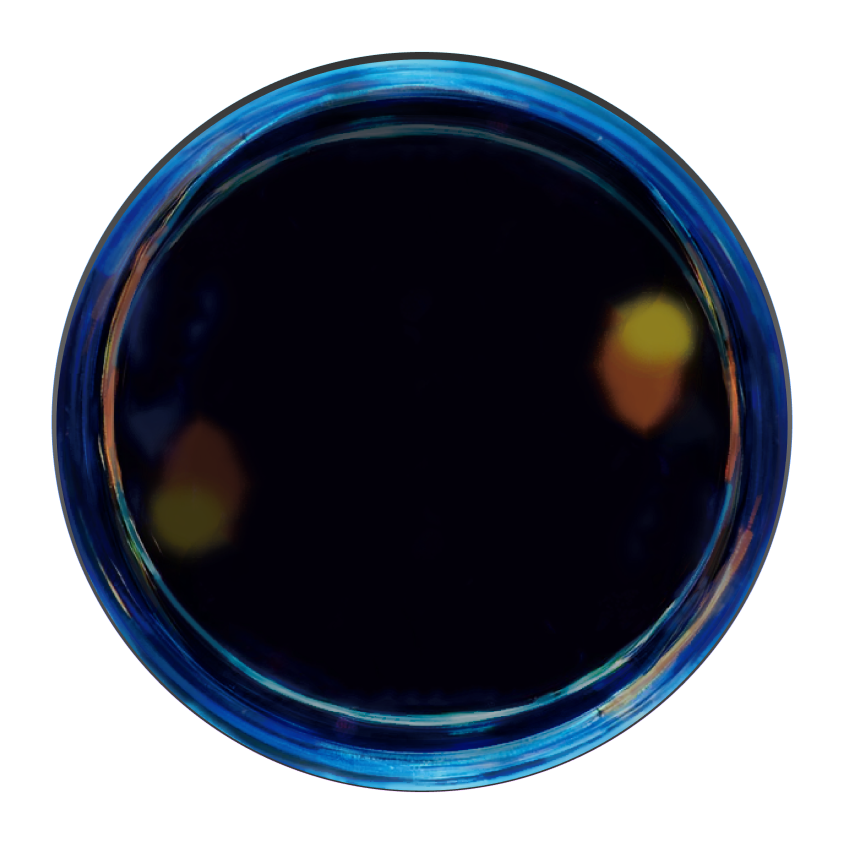
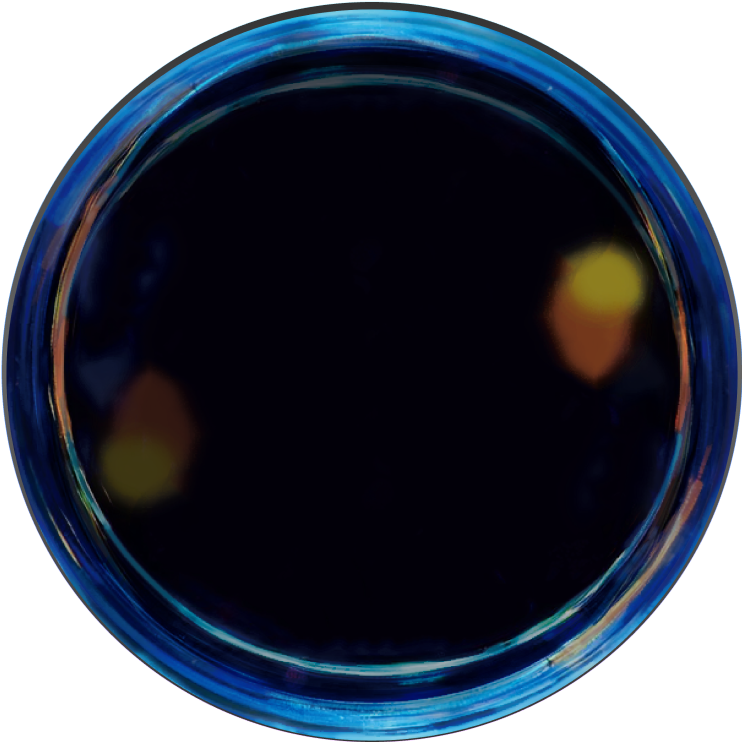
update 1216

diff --git a/index.html b/index.html
@@ -122,7 +122,7 @@
 
       .background-circle {
         background-image: url(./image/bg-circle-final.png);
-        background-size: 100%;
+        background-size: 88%;
         background-position: center;
         background-repeat: no-repeat; /* or 'repeat', 'repeat-x', 'repeat-y' */
       }
@@ -135,16 +135,34 @@
         gap: 1px;
         border-radius: 100%;
         overflow: hidden;
+        transform: scale(0.92);
       }
 
       #board2 {
-        display: grid;
-        grid-template-columns: repeat(15, 45px);
-        grid-template-rows: repeat(15, 45px);
+        /* display: grid; */
+        /* grid-template-columns: repeat(15, 45px);
+        grid-template-rows: repeat(15, 45px); */
+        display: flex;
         gap: 1px;
         border-radius: 100%;
         overflow: hidden;
         position: absolute;
+        width: 128%;
+        height: 128%;
+      }
+
+      #boardShadow {
+        /* display: grid; */
+        /* grid-template-columns: repeat(15, 45px);
+        grid-template-rows: repeat(15, 45px); */
+        display: flex;
+        gap: 1px;
+        border-radius: 100%;
+        overflow: hidden;
+        position: absolute;
+        width: 113%;
+        height: 113%;
+        box-shadow: 0 -10px 20px 10px;
       }
 
       .circle-container {
@@ -152,6 +170,7 @@
         justify-content: center; /* Centers items horizontally */
         align-items: center; /* Centers items vertically */
         position: relative; /* Positions children relative to the container */
+        transition: transform 0.5s ease-in-out;
       }
 
       .cell {
@@ -329,6 +348,35 @@
       <img src="./image/01-logo.png" alt="" style="width: 40%" />
     </div>
     <div
+      class="d-flex w-100 justify-content-center flex-column align-items-center"
+      style="position: absolute"
+    >
+      <img
+        src="./image/07-pic-up.png"
+        alt=""
+        style="
+          width: 45%;
+          display: none;
+          position: relative;
+          z-index: 3;
+          top: 26px;
+        "
+        class="sendTxt"
+      />
+      <img
+        src="./image/07-p-01.png"
+        alt=""
+        style="
+          width: 35%;
+          display: none;
+          position: relative;
+          z-index: 3;
+          bottom: 12px;
+        "
+        class="sendTxt"
+      />
+    </div>
+    <div
       class="page2 gameCon position-absolute d-none flex-column align-items-center"
     >
       <div class="countDown d-flex justify-content-center">
@@ -352,30 +400,6 @@
         </p>
         <p style="font-family: SweiSpringCJKtc-SemiBold, sans-serif">秒</p>
       </div>
-      <img
-        src="./image/07-pic-up.png"
-        alt=""
-        style="
-          width: 80%;
-          display: none;
-          bottom: 4rem;
-          position: absolute;
-          bottom: 70%;
-        "
-        class="sendTxt"
-      />
-      <img
-        src="./image/07-p-01.png"
-        alt=""
-        style="
-          width: 75%;
-          margin-top: 8rem;
-          display: none;
-          bottom: 5rem;
-          position: relative;
-        "
-        class="sendTxt"
-      />
       <div class="showCon d-flex justify-content-center align-items-center">
         <img class="colorBGO" src="" alt="" />
         <div class="circle-container">
@@ -398,6 +422,7 @@
             class="04circle"
           />
           <div id="board2" class="background-circle"></div>
+          <div id="boardShadow"></div>
           <div id="board"></div>
         </div>
       </div>
@@ -747,12 +772,12 @@
     socket.on("connect", () => {
       console.log("A user connected:", socket.id);
     });
-    
+
     function sendAllCellColorsToSocket() {
-        console.log(allCellColors());
-        socket.emit("message", { msg: allCellColors() });
-      }
-    
+      console.log(allCellColors());
+      socket.emit("message", { msg: allCellColors() });
+    }
+
     // 遊戲邏輯開始
     // 創建棋盤並顯示
     function initGrid() {
@@ -762,18 +787,18 @@
       for (let row = 0; row < size; row++) {
         let rowArr = [];
         for (let col = 0; col < size; col++) {
-          const cell = document.createElement('div');
+          const cell = document.createElement("div");
           cell.dataset.row = row;
           cell.dataset.col = col;
-          cell.classList.add('cell');
-          cell.addEventListener('click', () => toggleCell(row, col));
+          cell.classList.add("cell");
+          cell.addEventListener("click", () => toggleCell(row, col));
           cell.addEventListener("touchstart", handleTouchStartII);
           cell.addEventListener("touchmove", handleTouchMoveII);
           cell.addEventListener("touchend", handleTouchEnd);
           rowArr.push(cell);
           gridElement.appendChild(cell);
         }
-        console.log(rowArr)
+        console.log(rowArr);
         grid.push(rowArr);
       }
     }
@@ -797,7 +822,7 @@
         toggleCell(element);
       }
     }
-    
+
     // 改變細胞狀態
     function toggleCell(cell) {
       const row = parseInt(cell.dataset.row);
@@ -805,7 +830,9 @@
       const currentColor = cell.classList[1];
 
       if (!currentColor) {
-        cell.classList.add(aliveColors[Math.floor(Math.random() * aliveColors.length)]);
+        cell.classList.add(
+          aliveColors[Math.floor(Math.random() * aliveColors.length)]
+        );
       } else {
         const currentIndex = aliveColors.indexOf(currentColor);
         cell.classList.remove(currentColor);
@@ -818,7 +845,13 @@
       const neighbors = [];
       for (let r = row - 1; r <= row + 1; r++) {
         for (let c = col - 1; c <= col + 1; c++) {
-          if (r >= 0 && r < size && c >= 0 && c < size && (r !== row || c !== col)) {
+          if (
+            r >= 0 &&
+            r < size &&
+            c >= 0 &&
+            c < size &&
+            (r !== row || c !== col)
+          ) {
             const cell = grid[r][c];
             const color = cell.classList[1];
             if (color) neighbors.push(color);
@@ -838,12 +871,14 @@
           const neighborCount = {};
 
           // 统计邻居颜色
-          neighbors.forEach(color => {
+          neighbors.forEach((color) => {
             neighborCount[color] = (neighborCount[color] || 0) + 1;
           });
 
-          const maxColor = Object.entries(neighborCount).reduce((max, entry) =>
-            entry[1] > max[1] ? entry : max, ['', 0])[0];
+          const maxColor = Object.entries(neighborCount).reduce(
+            (max, entry) => (entry[1] > max[1] ? entry : max),
+            ["", 0]
+          )[0];
 
           if (maxColor) {
             newRow.push(maxColor);
@@ -875,7 +910,7 @@
       setTimeout(() => {
         $(".colorBGO").css({
           transition: "transform 1s ease-out",
-          transform: "rotate(180deg)",
+          transform: "rotate(180deg) scale(0.8)",
         });
 
         setTimeout(() => {
@@ -931,7 +966,9 @@
             $(".countDown").removeClass("d-flex");
             $(".countDown").addClass("d-none");
             $(".sendTxt").show();
-            $(".gameCon").css("transform", "translate(-50%, -50%) scale(0.46)");
+            $(".circle-container").css("transform", "scale(0.75)");
+            $(".colorBGO").css("transform", "scale(0.8)");
+            $(".showCon").css("transform", "translateY(25%)");
             // $(".maskPart").addClass("d-none");
             $(".maskPart").css({
               "background-image": 'url("./image/bg.png")',
@@ -975,23 +1012,30 @@
       clearInterval(interval); // 停止遊戲
       const result = findMostFrequentString(allCellColors());
       console.log(result);
+      const boardShadow = document.getElementById("boardShadow");
       if (result == "red") {
         document.querySelector(".colorBG").src = "./image/bg-fire.png";
         document.querySelector(".colorBGO").src = "./image/bg-fire-circle.png";
+        boardShadow.style.boxShadow = "0 -6px 20px 10px #C36868";
       } else if (result == "blue") {
         document.querySelector(".colorBG").src = "./image/bg-water.png";
         document.querySelector(".colorBGO").src = "./image/bg-water-circle.png";
+        boardShadow.style.boxShadow = "0 -6px 20px 10px #5F73CE";
       } else if (result == "green") {
         document.querySelector(".colorBG").src = "./image/bg-leaves.png";
         document.querySelector(".colorBGO").src =
           "./image/bg-leaves-circle.png";
+        boardShadow.style.boxShadow = "0 -6px 20px 10px #4EA67E";
       } else if (result == "magenta") {
         document.querySelector(".colorBG").src = "./image/bg-flower.png";
         document.querySelector(".colorBGO").src =
           "./image/bg-flower-circle.png";
+        boardShadow.style.boxShadow = "0 -6px 20px 10px #5F1E3B";
       } else {
         document.querySelector(".colorBG").src = "./image/bg-purple.png";
-        document.querySelector(".colorBGO").src = "./image/bg-purple-circle.png";
+        document.querySelector(".colorBGO").src =
+          "./image/bg-purple-circle.png";
+        boardShadow.style.boxShadow = "0 -6px 20px 10px #5F73CE";
       }
       gameStart = false;
       gameOver = true;
